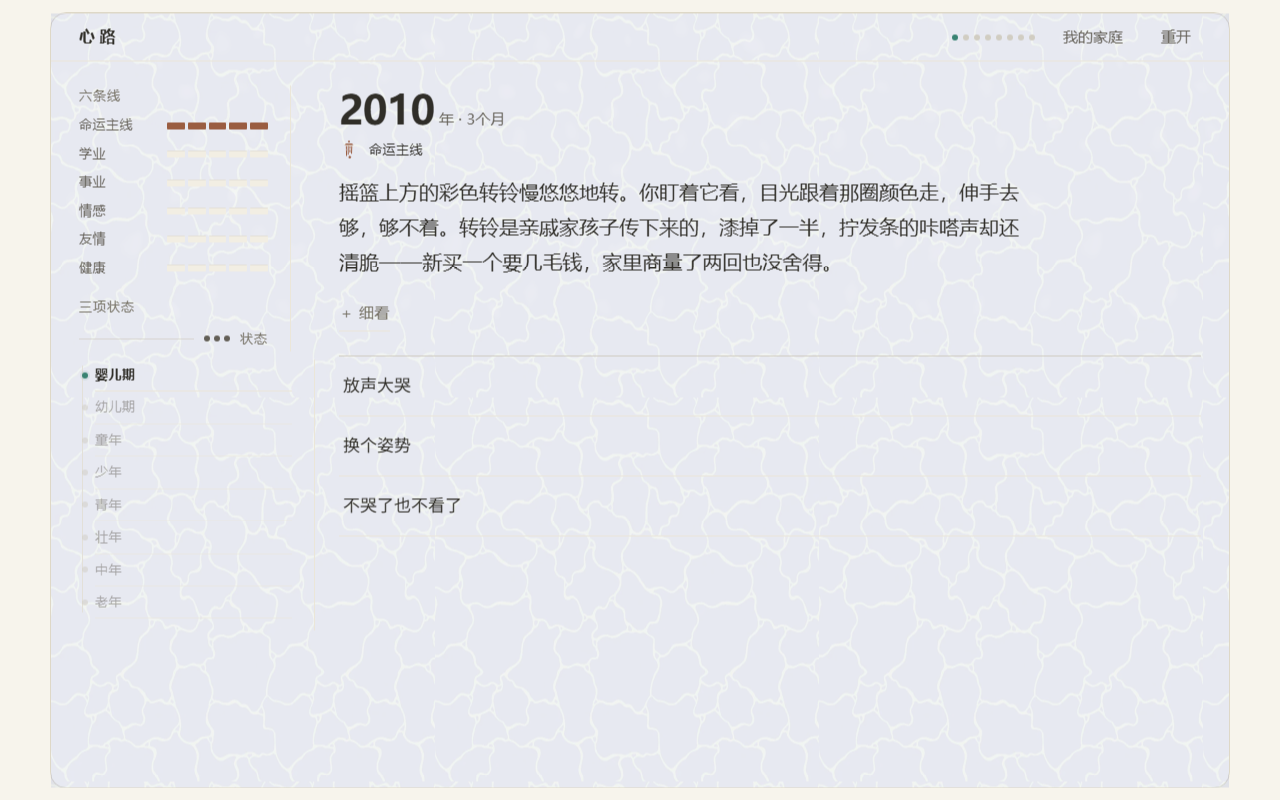
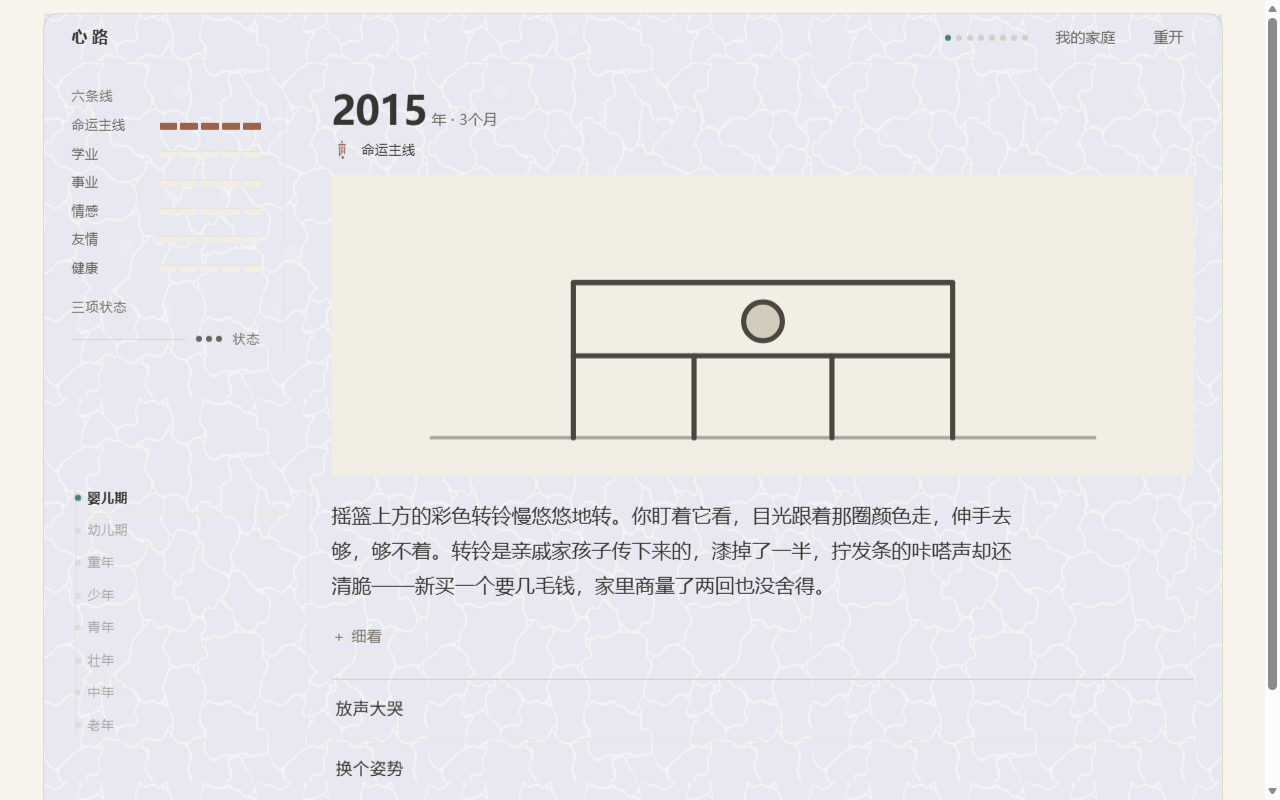
心路：v5-M3'''' 收官翻面（口径增补 + 两处状态副本 ✅ + 决策七行 + v5-M4 入棒单）
- 两处状态副本 v5-M3'''' ⬜→✅（plan/00 里程碑总表 + README 状态表，逐处独立采集后
  仍 119/120 行、23:23 一致）；v5-M4'''' 保持 ⬜。
- v5/00 台账三行 ✅（家谱树视图 / 语义配图 D9 / 轻量线索 D10）+ 决策记录七行
  （素材路线 / 标签来源 / 取图方式 / 线索判定 / 线索存档承载 / 图谱默认视图 /
  节点详情记录来源）+ 文档索引同步。
- v5/02 新增 §十四（§八/§九/§十 落地形态；§九 记明配图路线偏离与实测依据）。
- v5/03 模块 4 ✅（图谱增量）/ 模块 5 ✅（配图与线索）/ 模块 6 🟡 增量。
- v5/04 注 v5-M3'''' 执行结果（三块 + 出口门实测 + 抓到的 8 条真缺陷）。
- v5/backlog 观察区 +4 项（配图豁免 / 线稿表现力 / 线索只 6 条 / 线索未参与结局）。
- 写 plan/v5/HANDOFF-v5-M4.md（七节齐，含 11 条真缺陷判别口诀）。
- e2e 截图留痕重留 + 新增 4 张图谱双视图截图 + 48 张线稿总览图。

diff --git a/plan/v5/HANDOFF-v5-M4.md b/plan/v5/HANDOFF-v5-M4.md
@@ -1,0 +1,116 @@
+# HANDOFF-v5-M4 · v5-M3'''' → v5-M4'''' 入棒单（发布 v5.0.0）
+
+> 用法：续接对话第一件事 = 跑布局门 `node tools/check-sprint-layout.mjs`（必须绿），然后读本档 + [00-README总览.md](00-README总览.md)。
+> 编号纪律（skill 硬约束①）：**交接单编号随棒顺延**——本档是 v5-M3'''' 的收尾单，编号 HANDOFF-v5-M4 指下一棒（v5-M4''''）。
+> 本档记录 **v5-M3'''' 呈现层二（2026-10-26 收官）**：图谱双视图 + 节点详情 / 语义配图层（D9）/ 轻量线索（D10）。
+
+## 一、当前进度 + 证据（2026-10-26 当轮实测）
+
+| 块 | 落位 | 证据（当轮实跑） |
+|---|---|---|
+| 3.1 图谱双视图 | `src/ui/relations.ts`（`treeVM` / `treeSortKey` / `bondToOpacity` / `relationDetail` / `renderTree` / `renderRing`）+ `screens.ts`（`relationsScreen` 视图切换 + 清单行改按钮 + `relationDetailPanel`）+ `app.ts`（`relationView` 表现态 + 点开详情 + 换视图后重绑）+ `style.css`（`.rel-views` / `.rel-detail*` / 节点 hover） | `relations.test.ts` **21 项**（+10：层级 y 序 / 玩家恒正中 / 逐字节确定 / 婚姻双线线段数 = 边数 × 2 / 双视图产物不同 / `data-rel-node` 入口 / 详情回查 bondDeltas / 不在册返回 null / 时代卡跳过）；E2E 双视图切换 + 树层级（`getBoundingClientRect`）+ 详情面板（姓名 / 关系值 / 有记录或「还没变过」）+ 4 张截图 `docs/assets/v5-relations-{tree,ring}-{375,1280}.png` |
+| 3.2 语义图库（D9） | `assets/web-ready/scenes/*.svg`（**48 张 / 19 类**）+ `src/data/scene-map.json`（`{tags, keyTag}`）+ `src/ui/scenes.ts`（`sceneTagOf` / `sceneFileOf` / `sceneCoverage`）+ `screens.ts`（`sceneImage` 内联 + `figure.ev-scene`）+ `style.css`（`.ev-scene`，375 档限高 104px）+ `tools/v5-gen-scenes.mjs` / `v5-gen-scene-map.mjs` / `v5-scenes-doc.mjs` | validate 新增 `S` 区（`S.TAG` 19 类 / `S.FILE` 实物在位 / `S.EXTRA` 无孤儿 / `S.KEY` 无死键 / `S.COVER` 253/295 = **85.8%** ≥60%）；`scenes.test.ts` **9 项**（含「无死图」——每张图至少被一条事件用到）；逐张对文案 [docs/v5-scenes.md](../../docs/v5-scenes.md)（183 行）+ 总览图 `docs/assets/v5-scenes-sheet.png`；E2E 配图断言（≥10 张卡带图 / ≥6 张不同场景图 / 文件名合法） |
+| 3.3 轻量线索（D10） | `src/data/clues.json`（6 条）+ `src/engine/clues.ts`（`pendingClue` / `resolveClue` / `unlockEventIdOf` / `CLUE_FLAGS`）+ `events.json` 增 **12 条** `pre` 门槛事件（`tools/v5-add-clues-events.mjs`）+ `icon-map.json` 补 12 条（`tools/v5-add-clues-icons.mjs`）+ `screens.ts` `clueScreen` + `app.ts` `renderClueCard` + `style.css` `.clue-card` | validate 新增 `C` 区（形状 / 引用闭合 / 阶段一致 / 文案长度 / flag 唯一 / 每阶段 ≤1 / **`C.UNLOCK` 解锁事件 `pre` 必须真含该 flag**）；`clues.test.ts` **16 项**（含 **36 局全程实证：6 条线索 100% 触发 + 6 个锚事件 36/36 被抽到**）；E2E 线索卡（2–3 观察 + 2 解读 + 无三观增量读数 + 一局至少遇到 1 次） |
+
+**出口门实测（2026-10-26 当轮）**：布局门全绿（`DOC_TOOLS 12 个脚本全部在位`、`README 119/120`、`STATUS 2 处副本 × 19 里程碑一致无缺行`、`HANDOFFS 17 份齐`）/ 脱敏门 529 文件 0 命中 / 许可门 0 FAIL（459 件）/ 预算门 31 件 **760.43KB ≤ 850KB** 无 WARN（+14.38）/ validate 0 FAIL（295 事件，`--full`）/ validate:story 七项绿（255 条）/ validate:rhythm 绿 / vitest **399/399**（基线 364，+35）/ typecheck 0 / e2e 双端一键通关 + v5 开局四步与自定义出生全流程 / 变异自检 **24/24**（`node tools/tmp-mutate-v5m3.mjs`，12 组）。
+
+## 二、当前事实·状态不变量（下一棒动手前必须知道）
+
+1. **vitest 基线升到 399**（只加不减）：v5-M3'''' 增量 35 项 = `relations.test.ts`（+10）+ `scenes.test.ts`（9）+ `clues.test.ts`（16）。
+2. **图谱有两套布局，同一个出口**：`relationsVM`（环，沿 v3，继续服务右列清单行序与旧断言）与 `treeVM`（树，默认）。`renderRelations(npcs, view)` 是唯一渲染出口，快照与图谱页共用。**别把 renderRelations 的默认参数改掉**——终局快照 `relations-snapshot` 走默认值。
+3. **图谱边必须是 `<line>`，不能换 `<path>`**：E2E 用 `[data-relations-chart] svg line` 数边、`svg g` 数节点。树的「正交折线」是逐段 `<line>` 拼出来的；环视图的曲线是 `<path>`（只在 ring 视图出现，E2E 不数它）。
+4. **公共母线单独画一次**：多子女共用的竖/横段若不抽出来，每个孩子各画一遍同一段，**最后画的那条 tag 色会盖住其余**——颜色的归属变成「谁最后画」。母线用中性导线色（`--ink-3`，opacity .55）。
+5. **配图映射单源 = `scene-map.json` 的 `keyTag`**（`objectKey → 标签`），由 `tools/v5-gen-scene-map.mjs` 从 icon-map 派生；`assets/web-ready/scenes/*.svg` 是实物。**改映射要重跑 `tools/v5-scenes-doc.mjs`**，否则 `docs/v5-scenes.md` 的逐张表过期。
+6. **配图变体取图用哈希高位**（`variantIndex` = `hash >>> 16 % n`）。低位取模与事件 id 尾部强相关（实测 rain 3 条全撞一张），`scenes.test.ts` 的「无死图」断言会拦。
+7. **豁免是「不渲染」而不是「渲染空框」**：`sceneImage(null)` 返回空串，`figure.ev-scene` 节点根本不存在。E2E 用「无图标卡 ≤ 豁免数」的既有口径，配图侧不重复判。
+8. **线索判定零随机、零三观改动**：`resolveClue` 只把 flag 并进 `state.flags`（其余字段原样）。改这一条会同时打掉 `clues.test.ts` 的「不动判定核」与「36 局可复现」。
+9. **线索 flag 只写在 `clues.json`**：validate `C.FLAG` 反向扫「以 `clue-` 开头但 clues.json 未声明」的 flag。事件库的 `pre` 可以引用它们（validate 启动时先把 `clues.json` 的 flag 注入 `flagsDefined`）。
+10. **12 条解锁事件的真约束**：`pre` 必须含对应 flag（`C.UNLOCK`）、阶段与线索一致、月龄在锚事件之后且不晚于本阶段最早 critical（`E.AGE` ③）——**改月龄要同时改 `ageHint`**（`E.AGE` 要求两者解析值全等）。
+11. **线索卡的 e2e 钩子**：`.screen-clue[data-clue]`（挂在 `section` 上，不是后代！本轮首跑踩过 `[data-clue]` 后代选择器）、`[data-clue-prompt]`、`[data-clue-choice]`。
+12. **`tools/` 本棒新增四个脚本**：`v5-gen-scenes.mjs`（48 张图稿源，可重跑覆盖）、`v5-gen-scene-map.mjs`（映射派生 + 死键/坏标签硬报错）、`v5-scenes-doc.mjs`（留痕表重生成）、`v5-add-clues-events.mjs` / `v5-add-clues-icons.mjs`（幂等 upsert）。`tmp-mutate-v5m3.mjs` 名字带 tmp 是有意的（不是门，只作留档，可复跑）。
+
+## 三、下一棒待办（v5-M4'''' 发布 v5.0.0，顺序不可颠倒）
+
+> DoD 单源 = [00 §里程碑总表](00-README总览.md) v5-M4'''' 行；执行视图 = [04 §v5-M4''''](04-里程碑任务分解.md)；留档骨架 = [05-发布留档.md](05-发布留档.md)。
+
+| 步 | 内容 | 出口判据 |
+|---|---|---|
+| 4.1 | **构建 + 干净静态服务双端冒烟**：`npm run build` → 起干净静态服务 → `node tests/e2e/smoke.mjs --base-url <url>` | 双端一键通关；不得只看本地 preview |
+| 4.2 | **Pages 部署 + 实开复核**：push → ci + deploy-pages 双 success → 线上 `--base-url` 再跑一次冒烟 | 远端 run 号与结论落档（**CI 日志实证，非本地等价**）；不虚报 |
+| 4.3 | **CHANGELOG v5.0.0**：数据口径版本 + 文本口径与判定呈现变化 → **历史存档建议重开** | 三件事逐条写明；与 v5/02 口径一致 |
+| 4.4 | **plan/05 追加 §十 v5.0.0 节主体（tag 前）** | 两栏齐：tag 时点事实 / tag 后追加事实；覆盖对账小节 |
+| 4.5 | **tag v5.0.0 → Release（五部分 + dist.zip + sha256）** | 五部分齐；`dist.zip` 的 sha256 与本地复算一致 |
+| 4.6 | 留档「tag 后追加」分栏 → 两处状态副本翻 ✅ → 台账 ✅ → **HANDOFF-v5-M5**（收官单） | 布局门全绿；README ≤120 行 |
+
+**公共出口门**：全门绿终值留痕 + 三件套 + README 增量不破 120 行门（`LAYOUT.README` 机检）。
+
+**评审门（强核查）**：CHANGELOG 口径 ↔ v5/02 §十四 ↔ 实现三方一致；发布物（dist.zip / Pages）与 tag 提交一一对应；**tag 之后不得再改代码面**。
+
+**收尾顺序（固定）**：DoD 验证 → 两处状态副本 v5-M4'''' ⬜→✅ → v5/00 台账 ✅ → v5/03 模块 6 收口 → 写 **HANDOFF-v5-M5**（收官单，编号随棒顺延）→ commit。
+
+## 四、既定口径（已拍板，别再问；推翻须进 `v5/00` 决策记录）
+
+- **判定核零改动（K11）**：三观传导 / 结局 / 调度单调 / 种子复现全部不动；**发版不得带判定改动**。
+- **零运行时依赖（K2）**：`dependencies` 恒空。配图是静态 SVG（`?raw` 内联），图谱是手绘 SVG，均不经运行时库。
+- **存档 schema 沿用 v3**（`xinlu.save.v3`）：线索走既有 `flags` 通道，**不升版本、不加字段**。
+- **图谱默认 tree / ring 可切**；节点详情从 history 回查，不新增 bond 日志字段。
+- **配图路线已定为自产 CC0 线稿 SVG**（48 张 / 19 类），偏离原「CC0 照片」口径的**理由与实测数据已留痕** [docs/v5-scenes.md](../../docs/v5-scenes.md) §一 + [00 §决策记录](00-README总览.md)。发版说明里如实写「自产线稿」。
+- **主题四款继续有效**；素纸是默认。
+- 产品/赛事/制度名可入文，**真实机构名/真人名不写**；配图素材沿 v4 纪律：CC0 优先、逐张对文案留痕、不虚构不误导。
+- **发布纪律**：不虚报——push 不通就写不通；tag 后不改代码面；Release 五部分 + dist.zip + sha256 复核一致。
+
+## 五、环境坑（实测在案）
+
+- **本机直连 github.com 不通**：push 一律 SSH:22；仓库/Pages/Release 操作走 `gh` API（HTTPS 通）。
+- **脱敏门红线**：入库文件与提交信息不得写本机盘符 / 用户名 / 回环代理端口；示例路径用 `<user>`/`<repo>` 占位符。**临时探针脚本若写了绝对路径，脱敏门会当场抓到**（本轮踩过：`tests/tmp-probe-scenes.test.ts` 4 处命中）——探针用完立刻删，或一开始就写相对路径。
+- **gh 是原生程序，不认 `/tmp` 路径**：`--notes-file` / 附件参数要传 `cygpath -w` 转过的 Windows 路径。
+- **e2e 冒烟**：`node tests/e2e/smoke.mjs`（本地 build+preview）／`--no-build --base-url <url>`（外部静态服务或线上 Pages，同一口径）。**本轮新增 4 张截图**：`v5-relations-tree-{375,1280}.png` / `v5-relations-ring-{375,1280}.png`——提交前确认是有意更新。
+- **写源码要用 Write/Edit**：本环境有 hook 拦截「Bash 直接写 src/」——批量改请用 `tools/` 下脚本（`v5-add-clues-events.mjs` 等已按此实现），不要在 Bash 里 `>` 重定向写 `src/`。
+- **变异自检的调用方式**：Windows 上 `execFileSync("npx", …)` 不认 `.cmd` 外壳——脚本内要 `run(process.execPath, [node_modules/vitest/vitest.mjs, "run", file])`。
+- **截图要等换屏淡入动画**：图谱页截图若不等（本轮用 `sleep(700)`），拍到的是半透明帧，整页发白。
+- **vitest 单跑 ~20–35s**：可达性两项各 ~33s（并行取最大），不是卡死。
+- **`import.meta.glob` 的 `?raw` 会把 48 张 SVG 内联进 bundle**：这是有意的（省请求、随主题变量联动），代价是 JS bundle +14KB gzip。
+
+## 六、DoD 逐项 checklist
+
+**v5-M3''''（本档所在，已收官）**：
+
+- [x] 3.1 图谱双视图：`treeVM` 三代纵向（tree 默认）+ 关系网曲线重做（亲疏 = 线宽 × 透明度）+ 节点详情（history 回查 bondDeltas）+ 正交母线 + 婚姻双线
+- [x] 3.2 语义图库（D9）：19 类标签 + **48 张自产 CC0 线稿**（原始 34KB）+ `scene-map.json`（`objectKey → 标签`）+ 卡片上半屏（年份戳之下）+ 覆盖 85.8% + 豁免 42 条显式 + 逐张对文案 `docs/v5-scenes.md`
+- [x] 3.3 轻量线索（D10）：`clues.json` 6 条（每阶段 1 处）+ `clues.ts` 纯 flag 判定（零随机）+ 12 条 `pre` 门槛解锁事件 + 线索卡 UI
+- [x] 出口门：validate 0 FAIL（295 事件 + `C`/`S` 两区）/ validate:story 七项绿 / validate:rhythm 绿 / vitest **399**（+35）/ typecheck 0 / e2e 双端全绿 / 布局·脱敏·许可·预算（760.43KB）全绿
+- [x] 变异自检 **24/24**（`node tools/tmp-mutate-v5m3.mjs`，12 组）
+- [x] 计划面翻齐：两处状态副本 v5-M3'''' ✅ + v5/00 台账三行 ✅ + v5/00 决策记录七行 + v5/02 §十四 增补 + v5/03 模块 4 ✅ / 5 ✅ / 6 🟡 增量 + v5/04 执行结果 + v5/backlog 观察区 +4 项 + README 119/120
+- [x] 本档七节齐
+
+**v5-M4''''（下一棒）**：见 §三 六步表，每步各自 DoD 未勾。
+
+**验证记录（本棒当轮实跑，2026-10-26）**：
+
+| 命令 | 结果 |
+|---|---|
+| `node tools/check-sprint-layout.mjs` | **全绿**（10 条判据；`DOC_TOOLS 12 个脚本全部在位`；`README 119/120 行；状态表 23 行`；`STATUS 2 处副本 × 19 个已接门里程碑 状态全一致且无缺行`；`HANDOFFS 17 份齐`） |
+| `node tools/check-desensitized.mjs` | 529 文件，0 命中（豁免 1 份） |
+| `npm run validate`（`--full`） | **0 FAIL**（295 事件；新增 `C` 轻量线索 + `S` 语义配图两区；图标 295/295；F 区绿；偶遇 40 条） |
+| `npm run validate:story` | **绿（七项）**：S.LEN 255 / S.ERA 255 / S.SENSE 255 / S.REF 122；主句 102/117/120；选项 8/16/0%；detail 0 缺/0 超长/0 非前缀；单屏 >160 = 0 |
+| `npm run validate:rhythm` | **绿**：8 局 × 8 阶段，每阶段 4–5 种变体、非 critical 段连片 ≤3 |
+| `npx vitest run` | **399/399**（36 文件；~21s） |
+| `npx tsc --noEmit` | **0 错** |
+| `npm run e2e` | **全绿**（375/1280 双端一键通关 + 线索卡 + 配图 ≥10 张卡 / ≥6 张图 + 图谱双视图/树层级/节点详情 + 四步开局 + v4 自定义出生段；单屏最长 158 字） |
+| `npm run build` + `gate:budget` | 31 件，gzip **760.43KB ≤ 850KB**，无 WARN（+14.38：配图 48 张内联 + 图谱/线索代码） |
+| `npm run gate:license` | 0 FAIL（459 件；scenes 落在既有白名单 `assets/web-ready/`，无需新增署名行） |
+| `node tools/tmp-mutate-v5m3.mjs` | **12 组 / 24 项全符合预期**（图谱 4 组 / 配图 4 组 / 线索 4 组；逐条报红并复原绿） |
+
+## 七、本棒抓出的真缺陷（写进档，供下一棒复用判别口诀）
+
+1. **家谱树画成交叉网（3.1）**：首版每位家长连每个孩子，全是斜穿对角线，看起来不像家谱。处置 = **正交母线**（一根竖母线 + 横向分叉）。判别口诀：**「树」的结构信号是走线正交与分叉点，不是「有层级就算树」**——层级只保证了 y 序，观感要另外治。
+2. **母线颜色被最后一个孩子盖住（3.1）**：多子女共用同一段母线，每个孩子各画一遍 → 最后画的那条 tag 色盖住其余，颜色归属变成「谁最后画」。处置 = 公共段抽出来用中性导线色画一次。判别口诀：**同一条视觉元素被 N 个对象重复绘制时，它的样式就是「最后一个」的样式——要么只画一次，要么明确谁说了算。**
+3. **线稿 46 张长得一样（3.2）**：首版每张右侧堆三个无意义方框当「背景建筑」凑画面。总览目检一眼看出。处置 = **一张只有一个主体、居中放大**。判别口诀：**「一套图」不等于「一个模板」**——共用画法（画布/线宽/配色）是好的，共用填充物会让 48 张变成 1 张。
+4. **配图与文案错配（3.2）**：`windchimes`（摇篮转铃）映射到 `relic`，「信封」图挂在婴儿摇篮卡下；「办健身卡」配「病房」；「公园打拳」配「病房」；「徒弟开厂」配「家门」。处置 = ①按「事件发生在哪」重新归类；②**拆出不存在的类**（新增 `outdoors`），而不是硬塞进最近的类。判别口诀：**类目不够细就会硬塞**——错配的信号往往不是「映射写错了」，而是「这个类根本不该收这条」。
+5. **哈希低位取模导致变体全撞（3.2）**：`hash % n` 与事件 id 尾部强相关（`infant-015` / `toddler-015` / `toddler-602` 的低比特全是 0），rain 3 条全落同一张、meal 4 条撞 3 张，「每类 ≥2 张变体」形同摆设。处置 = 用**高位**（`>>> 16`）+ 补「无死图」门。判别口诀：**「我有 N 个槽」不等于「N 个槽都在用」——分布要机检，别靠想。**
+6. **婚姻双线判据是假门（3.1）**：首版断言 `marriage 线段数 ≥ 2`，但父母一对 + 伴侣一对本来就 ≥2 段，退化成单线依然通过。变异自检报「未红」才发现。处置 = 断言 `线段数 = 边数 × 2`。判别口诀：**下界断言要问「最坏情况是什么」——如果最坏情况也满足下界，这条断言没在判任何东西。**
+7. **线索随机化不可观测（3.3）**：想用「变异成随机取线索」验证可复现断言，结果不报红——因为 6 条线索在固定 state 下只有 1 条 pending，随机起点也还是它。处置 = 换成「忽略阶段门槛」变异（这条真能观测）。判别口诀：**变异要选「判据面真会被改变」的那个维度**，否则你以为在验门，其实在验运气。
+8. **新屏未接 E2E 驱动（3.3）**：新增线索卡后 e2e 首跑直接 `stuck:screen screen-card screen-clue`——轮询不认识新屏。处置 = 补驱动分支 + 采集 + 断言。判别口诀：**新增一个屏 = 新增一条 e2e 分支**，不是「等它出现再断言」（后者会静默跳过）。
+9. **选择器挂在自己身上（3.3）**：`[data-clue]` 挂在 `section.screen-clue` 上，写成 `.screen-clue [data-clue]`（后代选择器）永远找不到。处置 = `.screen-clue[data-clue]`。判别口诀：**同一个元素既当容器又当锚点时，后代选择器必然落空。**
+10. **截图拍在淡入动画中途（3.1 留痕）**：图谱页截图整页发白——`.screen` 有淡入动画，`captureScreenshot` 抢在动画中。处置 = 等 700ms 再拍（或等 `animationend`）。判别口诀：**任何「截出来怪怪的」先怀疑时机，再怀疑样式。**
+11. **脱敏门抓自己的临时探针（环境坑连带）**：为目检写的 `tests/tmp-probe-scenes.test.ts` 里写了绝对盘符路径，脱敏门当场 4 处命中。处置 = 探针用完立刻删；要留就写相对路径。判别口诀：**临时脚本也进扫描面**——「跑完就删」是纪律，不是可选项。

diff --git a/plan/v5/00-README总览.md b/plan/v5/00-README总览.md
@@ -10,15 +10,16 @@
 |---|---|---|---|
 | 00 | 本档 | 索引 / 决策记录 / 台账 / 里程碑总表 | ✅ 已定稿（2026-10-26） |
 | 01 | [01-题目文档.md](01-题目文档.md) | 十段式：定位宣言 / 任务要求 / 验收标准 / 边界 | ✅ 已定稿 |
-| 02 | [02-数据与口径.md](02-数据与口径.md) | v5 口径单源：家庭槽位 / 偶遇层 / 节奏变体 / 文本长度门 / 主题色板 / 语义图库 / 线索玩法 + **§十二 v5-M1'''' 实现增补** + **§十三 v5-M2'''' 实现增补** | ✅ 已定稿（2026-10-26 增补 §十三） |
-| 03 | [03-模块清单与验收.md](03-模块清单与验收.md) | 6 个 v5 模块 × 职责 / 契约 / 验收 | 🟡 模块 1/2 ✅、模块 3/4 部分 ✅（v5-M2''''）、模块 6 🟡 |
-| 04 | [04-里程碑任务分解.md](04-里程碑任务分解.md) | v5-M1''''–M4'''' 任务块 / 验证命令 / 评审门 | ✅ 已定稿（v5-M1''''/v5-M2'''' 执行结果已注） |
+| 02 | [02-数据与口径.md](02-数据与口径.md) | v5 口径单源：家庭槽位 / 偶遇层 / 节奏变体 / 文本长度门 / 主题色板 / 语义图库 / 线索玩法 + **§十二/§十三/§十四 实现增补**（v5-M1''''/M2''''/M3''''） | ✅ 已定稿（2026-10-26 增补 §十四） |
+| 03 | [03-模块清单与验收.md](03-模块清单与验收.md) | 6 个 v5 模块 × 职责 / 契约 / 验收 | 🟡 模块 1–5 ✅（v5-M3''''）、模块 6 🟡（发布三件套留 v5-M4''''） |
+| 04 | [04-里程碑任务分解.md](04-里程碑任务分解.md) | v5-M1''''–M4'''' 任务块 / 验证命令 / 评审门 | ✅ 已定稿（v5-M1''''/M2''''/M3'''' 执行结果已注） |
 | 05 | [05-发布留档.md](05-发布留档.md) | v5.0.0 三件套留档骨架 | ⬜ 待 v5-M4'''' 撰写主体 |
 | 06 | [06-运维节奏.md](06-运维节奏.md) | 沿用十四类缺口 + v5 扩展 | ✅ 规则已定稿 |
-| — | [backlog.md](backlog.md) | v5 迭代队列（证据制） | ✅ 已启用（2026-10-26；队列空 + 观察区 8 项） |
+| — | [backlog.md](backlog.md) | v5 迭代队列（证据制） | ✅ 已启用（2026-10-26；队列空 + 观察区 13 项） |
 | — | [HANDOFF-v5-M1.md](HANDOFF-v5-M1.md) | 装订棒 → v5-M1'''' 入棒单（七节） | ✅ 已写定（2026-10-26） |
 | — | [HANDOFF-v5-M2.md](HANDOFF-v5-M2.md) | v5-M1'''' → v5-M2'''' 入棒单（七节） | ✅ 已写定（2026-10-26） |
 | — | [HANDOFF-v5-M3.md](HANDOFF-v5-M3.md) | v5-M2'''' → v5-M3'''' 入棒单（七节） | ✅ 已写定（2026-10-26） |
+| — | [HANDOFF-v5-M4.md](HANDOFF-v5-M4.md) | v5-M3'''' → v5-M4'''' 入棒单（七节） | ✅ 已写定（2026-10-26） |
 
 状态枚举：✅ 已定稿 ｜ 🟡 进行中 ｜ ⬜ 待 v5-Mx + 动词 ｜ 🔒 已冻结
 
@@ -42,7 +43,13 @@
 | 2026-10-26 | v5-M2'''' **「再来一次」的可用性** | **随机/手选态可用，自定义态不渲染**（`rerollable` 字段） | 自定义态也放按钮：玩家填的八因素不会变，重掷只换种子与家庭名单——按钮名不副实，且与「再来一次」的语义（重掷未知项）冲突 |
 | 2026-10-26 | v5-M2'''' **L3 状态条的折叠方式** | 用**原生 `<details>`**，收起态 = 1px 细线 + 三枚档位点；三项读数节点**不删**（只藏） | JS 折叠：多一处状态与事件绑定，且刷新/续局易丢展开态；删节点只留摘要：既有 E2E 钩子（`.statebar .res` / `res-word` / `res-tier-bar i`）全断，等于用一层视觉换掉一层契约 |
 | 2026-10-26 | v5-M2'''' **纹理素材是否删除** | **留档不删**（只删样式表引用）；`--tex-wash: 0` 留在 `:root` 作机检事实 | 连素材一起删：CC0 台账的可追溯性丢了（v3 素材决策留痕），且删文件与「不引用」对产物是同一效果；删 `--tex-wash` token：素纸变成「某处没写」的巧合，不是可断言的事实 |
-
+| 2026-10-26 | v5-M3'''' **配图素材路线** | **自产 CC0 线稿 SVG（48 张 / 19 类）**，不采照片 | 按原口径采 CC0 照片：本机 Wikimedia/Openverse 不通、Pexels/Pixabay 只有 CDN 直连无法核验画面与许可，provenance 逐张无法证真（违反「不虚构不误导」）；且照片 WebP 实测 ≈4.3KB/张 × 48 ≈ 207KB > 当时预算余量 104KB。自产沿 v4 `stage-scenes` 先例：许可零风险、可逐张留痕、原始 34KB。偏离留痕 [docs/v5-scenes.md](../../docs/v5-scenes.md) §一 |
+| 2026-10-26 | v5-M3'''' **配图的语义标签来源** | **`objectKey → 标签`**（复用 iconMap），不新造 `sceneTag` 字段 | 给每条事件新标 `sceneTag`：等于把 v4 已核过的「文本核心物件」判断重做一遍，还会与 iconMap 漂移成两处；跑文本关键词匹配：实测 99.3% 覆盖看着漂亮，但每条都是最近似猜测（先试过，弃用）。从 objectKey 派生得 85.8%，可逐条核查 |
+| 2026-10-26 | v5-M3'''' **配图变体的取图方式** | 事件 id **哈希高位**取模（同 id 恒同图） | 低比特取模：与事件 id 尾部强相关，实测 rain 3 条全撞一张、meal 4 条撞 3 张，「每类 ≥2 张变体」形同摆设（`scenes.test.ts` 的「无死图」断言即为此立）；按顺序轮换：事件增删会让整片图重新洗牌，留痕表失效 |
+| 2026-10-26 | v5-M3'''' **线索的判定方式** | **纯 flag 映射，零随机**（`resolveClue` 只并 flags） | 线索判定走种子 RNG：可复现仍成立，但「这条线索为什么出」就不可解释了；线索直接改三观：违反「线索只写 flag、影响后续解锁」的既定口径 |
+| 2026-10-26 | v5-M3'''' **线索 flag 的存档承载** | 沿用既有 `flags` 通道，**存档 schema v3 不变、不加字段** | 新增 `clues` 字段：要升版本 + 写迁移测试，而 flag 通道本就存在且被 pre/结局共用；另存一份线索日志：与 flags 双写易漂移 |
+| 2026-10-26 | v5-M3'''' **图谱默认视图** | **家谱树（tree）默认**，关系网（ring）切换 | ring 作默认沿 v3：玩家反馈要的是「一眼看清血缘」，环形本就在被否的视觉里；只留 tree：关系网仍承载「谁离你更近」（亲疏线宽 + 透明度） |
+| 2026-10-26 | v5-M3'''' **节点详情的记录来源** | **从 history 回查选项 bondDeltas**（不另存） | 新增 bond 变更日志字段：要升存档版本，且与 history 双写会漂移；只显示关系值不显示记录：那条反馈（「关系不再是一个数字」）就没治到 |
 ## 招牌动词表（v5 新增能力名词 → 产出 → 断言）
 
 | # | 能力名词 | 交付态哪里产出它 | 哪条测试/校验断言它 |
@@ -87,9 +94,9 @@
 | 出生证明卡（随机可读） | 10 §四.2 | 开局屏 | E2E + 八因素齐 | ✅ 2026-10-26（八因素 `data-cert-factor` 逐个非空（出生年/南北/城乡/结构/父母职业/家境/家庭成员/种子码）；家庭成员与 `generateFamily`/`createRun` 名单逐位一致（单测）；「再来一次」换种子且至少一项因素变（E2E），自定义态不渲染该按钮（单测 + E2E）） |
 | 素纸主题（D8） | 10 §四.3 | 设置页 | 四主题截图 + AA 测试 | ✅ 2026-10-26（`body::before` 纹理层整段删除 + `--tex-wash: 0` 机检 + 四款主题 ink/ground·ink/surface ≥7:1 与 ink-2/ink-3 ≥4.5:1 逐主题断言；四主题截图 `docs/assets/v5-theme-{paper,moon,night,celadon}-375.png`；夜航 AA 11 组合判据未动） |
 | 卡片阅读优先（单屏 ≤160 字观感） | 10 §四.5 | 卡片屏 | E2E + 人工目检 | ✅ 2026-10-26（L1 `--fs-section` + `max-width: 34em`（E2E 换算成「一行 34 字」硬断言）+ 留白 32px；L3 状态条原生 `<details>` 默认折叠（细线 + 三档位点）；细看展开对账：可见 + 以主句开头 + 不短于主句） |
-| 家谱树视图 | 10 §四.4 | 图谱屏 | 布局单测 + E2E | ⬜ 待 v5-M3'''' 实现 |
-| 语义配图 40–60 张 | 10 §五（D9） | 卡片上半屏 | 覆盖校验 + 许可门 | ⬜ 待 v5-M3'''' 实现 |
-| 轻量线索（D10） | 10 §三.5 | 卡片流 | 判定单测 + 可复现 | ⬜ 待 v5-M3'''' 实现 |
+| 家谱树视图 | 10 §四.4 | 图谱屏 | 布局单测 + E2E | ✅ 2026-10-26（`treeVM` 三代纵向：祖辈 < 父母 < 玩家与同辈 < 伴侣与同行者（层级 y 序单测 + E2E 读 getBoundingClientRect）；玩家恒第 2 层正中；正交折线母线（多子女共用竖/横段用中性导线色画一次）；婚姻双线（`segments × 2` 机检）；关系网曲线连边 + 亲疏 = 线宽 + 透明度；节点详情取 history 回查 bondDeltas（关系值 + 何时/因何，无记录时明说「还没变过」）；同状态两次渲染逐字节相同；E2E 双视图切换 + 树层级 + 详情面板；截图 `docs/assets/v5-relations-{tree,ring}-{375,1280}.png`） |
+| 语义配图（D9） | 10 §五（D9） | 卡片上半屏 | 覆盖校验 + 许可门 | ✅ 2026-10-26（**自产 CC0 线稿 SVG 48 张 / 19 类**，原始合计 34KB；路线偏离留痕 [docs/v5-scenes.md](../../docs/v5-scenes.md) §一——照片路线在本机无法核验 provenance，且 48 张 ≈207KB 超预算余量）；映射 `objectKey → 语义标签`（继承 v4 逐条核过的图标结论）；覆盖 253/295 = **85.8%** ≥60%；豁免 42 条显式（不渲染、不留空框）；validate `S` 区（标签 ≥16 / 每类 ≥2 / 实物在位 / 无孤儿 / keyTag 无死键 / 覆盖 ≥60%）；`scenes.test.ts` 9 项（含「无死图」）；逐张对文案 `docs/v5-scenes.md`） |
+| 轻量线索（D10） | 10 §三.5 | 卡片流 | 判定单测 + 可复现 | ✅ 2026-10-26（`src/data/clues.json` 6 条 = 6 阶段各 1 处；`src/engine/clues.ts` 纯 flag 判定（零随机、零三观改动）；两条解读各写一个 flag（共 12 个），各解锁一条新事件（12 条 `pre` 门槛事件）；validate `C` 区（形状 / 引用闭合 / 文案长度 / 每阶段 ≤1 / 解锁事件 `pre` 必须真含该 flag）；`clues.test.ts` 16 项含 **36 局全程实证 6 条线索 100% 触发**；E2E 线索卡断言（2–3 条观察 + 2 解读 + 无三观增量读数）） |
 | 历史存档重开声明 | 双层版本规则 | Release 说明 | CHANGELOG 核对 | ⬜ 待 v5-M4'''' 实现 |
 
 ## 里程碑总表（DoD 只加不减；要减必须在本档决策记录留行）

diff --git a/plan/v5/02-数据与口径.md b/plan/v5/02-数据与口径.md
@@ -246,3 +246,44 @@
 | 四主题保留 | `paper / moon / night / celadon` id、能力、`--tier-1..5` 联动全部不变；夜航 AA 11 组合判据面**未动**（只加不减） |
 | 设置页补全 | 新增**阅读偏好**两组（字号 2 档 / 动效 2 档，`src/ui/prefs.ts`，键 `xinlu.prefs.v1`，挂 `<html data-font/data-motion>`）+ **本机存档**清除（两步确认，只清 `xinlu.save.v3`，图鉴与设置保留） |
 | 纹理素材处置 | `assets/cc0/parchment/*.webp` 两件**留档不删**（CC0 台账可追溯，见 [assets/README.md](../../assets/README.md) 该节 v5 状态行）；**纹理层删除是负增量**：parchment-bg.webp（1.9KB）小于 Vite 内联阈值，原以 base64 内联进 CSS，删引用后 dist 少约 **2.45KB（gzip）**；本棒新增 CSS/TS 净额约 +3.04KB，故 745.46 → **746.05KB**（净 +0.59KB，实测口径见 [04 §v5-M2'''' 执行结果](04-里程碑任务分解.md)） |
+
+## 十四、v5-M3'''' 实现增补（口径变更留痕，随实现同提交）
+
+> 本节是 v5-M3'''' 执行时对 §八–§十 的**落地形态说明**，只增不改（原表述保留）。与上文不一致处以本节为准，同笔进 [00 §决策记录](00-README总览.md)。
+
+### §八 ▸ 增补：图谱双视图的落地形态
+
+| 项 | 落地口径 |
+|---|---|
+| 视图枚举 | `RELATION_VIEWS = ["tree", "ring"]`（`src/ui/relations.ts`）；**tree 默认**、ring 切换。切换是表现态（`app.ts` 的 `relationView`），不进存档、不落 localStorage |
+| 树布局 | `treeVM(npcs)`：层级由**家庭槽组**决定（0 祖辈 / 1 父母 / 2 玩家与同辈 / 3 伴侣与同行者）；同层横排在 `[34, 326]` 内均分；**玩家恒第 2 层正中**（同辈分列两侧）。位置只由成员构成决定 → 同状态两次渲染逐字节相同（`relations.test.ts` 断言） |
+| 走线 | **正交折线**：父母横杆 + 一根竖母线 + 横向分叉到各子女头顶（不画斜穿对角线）。多子女**共用的竖段/横段只画一次**、用中性导线色（不绑任何人的 tag）——否则每支各画一遍，最后画的那条 tag 色会盖住其余，颜色变成「碰巧」 |
+| 婚姻双线 | 同一折线画两遍、垂直错开 3px；机检断言 `marriage 线段数 = marriage 边数 × 2`（只断言「≥2」会漏掉退化成单线，变异自检抓到过） |
+| 关系网重做 | 曲线连边（二次贝塞尔，控制点沿半径内收 45%）+ 亲疏 = 线宽（`bondToWidth` 1–6px **×** 透明度（`bondToOpacity` 0.35–0.95））+ 画布放大到 380×372、环半径 86/154 做标签避让 |
+| 节点详情 | `relationDetail(history, npcs, id)`：**从 history 回查选项的 `bondDeltas`**（存档 schema v3 冻结，不新增字段、不另存 bond 日志——那会与 history 漂移）。面板给关系值 + 逐条「何时（ageHint）/ 因何（选项文案）/ 增量」；无记录时明说一句「这一段关系还没有变过」，不留空白区 |
+| 图例/钩子 | `data-rel-node`（SVG 节点与右列清单同一入口）、`data-rel-view`（切换）、`data-rel-detail`（面板）、`data-bond-delta`；既有 `[data-relations-chart] svg g` / `svg line` 数节点与边的口径**未破坏**（边一律 `<line>`，不换 `<path>`） |
+
+### §九 ▸ 增补：语义配图的落地形态（含路线偏离）
+
+| 项 | 落地口径 |
+|---|---|
+| **素材来源（偏离）** | plan 原口径是「CC0/公版照片，WebP ≤40KB/张，40–60 张」。**本机实测**：Wikimedia/Openverse 不通，Pexels/Pixabay 只有 CDN 直连、无检索 API，无法核验画面与许可 → 照片路线的 provenance 无法逐张证真；且照片 WebP 实测 ≈4.3KB/张 × 48 ≈ 207KB，**超出当时预算余量（104KB）**。故改为**自产 CC0 单色线稿 SVG**（沿 v4 `stage-scenes` 自产剪影先例）：48 张、原始 34KB、≈0.7KB/张，许可零风险、可逐张留痕。逐张对文案见 [docs/v5-scenes.md](../../docs/v5-scenes.md) |
+| 标签枚举 | **19 类**（首批清单 16 类 + 实测拆出 `outdoors 户外` / `meal 饭桌` / `relic 旧物`）。拆分的由来：目检抓到真错配——办健身卡配「病房」、公园打拳配「病房」、徒弟开厂配「家门」，**类目不够细就会硬塞** |
+| 映射 | `objectKey → 语义标签`（`scene-map.json` 的 `keyTag`）。选它而不是新造 `sceneTag` 字段：v4-M3''' 已按「文本核心物件 ⊆ objectKey」逐条核过全部事件的图标，所以这是**可核查的既有事实**，不是第二次猜测。直接跑文本关键词会得出 99.3% 覆盖，但每条都是最近似——本轮先试过，弃用 |
+| 取图 | 同标签多张变体按事件 id 的**哈希高位**（`>>> 16`）取模。低比特与事件 id 尾部强相关：实测 rain 3 条全撞一张、meal 4 条撞 3 张，多张变体形同摆设。`scenes.test.ts` 的「无死图」断言即为此而立 |
+| 覆盖与豁免 | 覆盖 **253/295 = 85.8%**（≥60%）；豁免 42 条**显式**（不渲染配图、不留空框）。豁免构成：抽象图标（`heart-*` 系 12 个 + `choice`/`crossroad`/`despair`/`infinity`/`uncertainty` 等）本就不是场景；另 1 条在图标层已豁免 |
+| 卡片位置 | 配图在**年份戳之下、L1 正文之上**（`figure.ev-scene[data-ev-scene]`）；375 档限高 104px。**不得顶掉年份戳**（顺序未变）；配图**不计入**单屏 ≤160 字口径（它不占文字量） |
+| 门禁 | validate 新增 `S` 区（`S.TAG` 标签 ≥16 / 每类 ≥2 张；`S.FILE` 实物在位；`S.EXTRA` 无孤儿图；`S.KEY` keyTag 无死键；`S.COVER` 覆盖 ≥60% 且**逐事件复算**不写死数字）+ `scenes.test.ts` 9 项 |
+
+### §十 ▸ 增补：轻量线索的落地形态
+
+| 项 | 落地口径 |
+|---|---|
+| 数据 | `src/data/clues.json`：6 条（childhood/teen/youth/adult/midlife/elder **各 1 处**），每条 = `anchorEventId`（锚事件）+ `prompts` 2–3 条（≤20 字）+ `choices` 2 个（≤12 字，各一个 flag）+ `unlockEventIds` 2 个（与 choices 同序） |
+| 判定 | `src/engine/clues.ts` 纯函数、**零随机、零三观改动**：`pendingClue`（锚事件已作答 + 未落定 + 阶段一致，按 clues.json 顺序取第一条）、`resolveClue`（只把所选解读的 flag 并入 `flags`）、`unlockEventIdOf`。可复现是结构性质，不是巧合 |
+| flag 单源 | 线索 flag 只写在 `clues.json`；validate `C` 区反向扫「以 `clue-` 开头但 clues.json 未声明」的 flag 并报红，防两处各记一份 |
+| 解锁 | 12 条新事件（6 组 × 2 解读），每条 `pre: [<该解读的 flag>]`。validate `C.UNLOCK` 要求**解锁事件的 `pre` 真的含该 flag**——否则玩家表了态却什么都没变 |
+| 存档 | 走既有 `flags` 通道，**schema v3 不变、不加字段**（K 口径）；线索不回写、不新建存储键 |
+| 呈现 | 线索卡与事件卡同壳（`.screen-clue[data-clue]`），但**不渲染三观增量读数**（它只写 flag，界面不该暗示它在改判定核）。钩子：`[data-clue-prompt]` / `[data-clue-choice]` |
+| 实证实测 | `clues.test.ts` 含 **36 局全程模拟**（3 环境 × 12 种子）：6 条线索 **100% 触发**、6 个锚事件 36/36 被抽到。只测纯逻辑证不了可达性——阶段内 35 条事件实出 ~25–32 张卡，锚可能抽不到 |
+| 门禁 | validate 新增 `C` 区（`C.SCHEMA`/`C.REF`/`C.STAGE`/`C.LEN`/`C.FLAG`/`C.DENSITY` 每阶段 ≤1/`C.UNLOCK`） |

diff --git a/plan/v5/03-模块清单与验收.md b/plan/v5/03-模块清单与验收.md
@@ -36,20 +36,21 @@
 - **契约**：素纸主题（02 §七，删纹理/提对比）；四主题保留；图谱双视图（`tree` 默认 / `ring` 切换，02 §八）+ 节点详情（关系值 + 变化记录）。
 - **验收**：四主题截图留痕 + 夜航 AA 测试绿；树视图布局单测（层级 y 序 + 确定性）；节点详情 E2E；图谱视觉目检（曲线/头像圆/标签避让）。
 - **依赖**：1（槽位 role 标签）。
-- **状态：🟡 主题部分 ✅（v5-M2''''，2026-10-26；图谱双视图/节点详情留 v5-M3''''）**。验证记录：`body::before` 纹理层整段删除 + `:root` 保留 `--tex-wash: 0`（`theme-contrast.test.ts` 直读样式表断言：无纹理层、无 parchment 引用、无 `--tex-opacity`）；四款主题 `ink/ground`·`ink/surface` ≥7:1、`ink-2/ink-3/surface` ≥4.5:1 逐主题断言；夜航 AA 11 组合判据面未动；四主题截图 `docs/assets/v5-theme-{paper,moon,night,celadon}-375.png`；设置页补全见模块 3b。
+- **状态：✅ 已验收（v5-M2'''' 主题 + v5-M3'''' 图谱，2026-10-26）**。验证记录：`body::before` 纹理层整段删除 + `:root` 保留 `--tex-wash: 0`（`theme-contrast.test.ts` 直读样式表断言：无纹理层、无 parchment 引用、无 `--tex-opacity`）；四款主题 `ink/ground`·`ink/surface` ≥7:1、`ink-2/ink-3/surface` ≥4.5:1 逐主题断言；夜航 AA 11 组合判据面未动；四主题截图 `docs/assets/v5-theme-{paper,moon,night,celadon}-375.png`；设置页补全见模块 3b。**v5-M3'''' 图谱增量**：`treeVM` 三代纵向（层级 y 序 + 玩家恒第 2 层正中 + 同状态逐字节确定）+ 正交折线母线（公共段中性导线色画一次）+ 婚姻双线（线段数 = 边数 × 2 机检）+ 关系网曲线连边与亲疏两维（线宽 × 透明度）+ 节点详情（history 回查 bondDeltas，无记录明说「还没变过」）；`relations.test.ts` 21 项；E2E 双视图切换 + 树层级 + 详情面板；截图 `docs/assets/v5-relations-{tree,ring}-{375,1280}.png`。口径增补见 [02 §十四 ▸ §八](02-数据与口径.md)。
 
 ## 5. 配图与线索 `assets/web-ready/scenes/` + `src/data/scene-map.json` + `src/data/clues.json` + `src/engine/clues.ts`
 
-- **契约**：语义标签封闭枚举（≥16 类）+ 图库 40–60 张（WebP ≤40KB）；事件 `sceneTag` 映射；线索 schema 与判定（02 §十）。
-- **验收**：覆盖 ≥60% 事件（脚本统计）+ 豁免清单落档；许可门白名单扩展 0 FAIL；预算门重审；线索判定单测 + flag 写入断言。
+- **契约**：语义标签封闭枚举（≥16 类）+ 图库（原口径 WebP ≤40KB/张，本轮按偏离走自产 SVG）；`objectKey → 语义标签` 映射；线索 schema 与纯 flag 判定（02 §十）。
+- **验收**：覆盖 ≥60% 事件（脚本统计）+ 豁免清单落档；许可门白名单 0 FAIL；预算门重审；线索判定单测 + flag 写入断言 + 全程可达实证。
 - **依赖**：3（卡片三层定版后配位）。
+- **状态：✅ 已验收（v5-M3''''，2026-10-26）**。验证记录：**语义配图** —— 自产 CC0 线稿 SVG **48 张 / 19 类**（原始 34KB；路线偏离见 [docs/v5-scenes.md](../../docs/v5-scenes.md) §一：照片路线在本机无法核验 provenance 且 ≈207KB 超预算）；映射 `objectKey → 标签`（复用 v4 逐条核过的图标结论）；覆盖 **253/295 = 85.8%**；豁免 42 条显式（不渲染、不留空框）；validate 新增 `S` 区（`S.TAG`/`S.FILE`/`S.EXTRA`/`S.KEY`/`S.COVER`）+ `scenes.test.ts` 9 项（含「无死图」）+ 逐张对文案 `docs/v5-scenes.md`；预算 746.05 → **760.43KB**（+14.38，余量 89.57KB）；许可门 0 FAIL（自产，无新增署名）。**轻量线索** —— `clues.json` 6 条（6 阶段各 1 处）+ `clues.ts` 纯 flag 判定（零随机）+ 12 条 `pre` 门槛解锁事件；validate 新增 `C` 区（含 `C.UNLOCK`：解锁事件的 `pre` 必须真含该 flag）+ `clues.test.ts` 16 项（含 **36 局全程实证 6 条线索 100% 触发**）；E2E 线索卡断言（2–3 观察 + 2 解读 + 无三观增量读数）。口径增补见 [02 §十四 ▸ §九/§十](02-数据与口径.md)。
 
 ## 6. 门禁与发布 `scripts/` + `tools/` + v5.0.0
 
 - **职责**：`check-rhythm.mjs` 新门；validate `F` 区 + 密度门扩展；`validate:story` 三门；布局门 v5 感知（装订棒已扩）；发布流程（构建→冒烟→Pages→CHANGELOG→tag→Release→留档 §十）。
 - **验收**：全门绿 + 变异自检各一；三件套；README 增量不破 120 行门；Release 五部分含重开声明。
 - **依赖**：1–5。
-- **状态：🟡 门禁部分落位（v5-M1'''' 2026-10-26；发布三件套留 v5-M4''''）**。验证记录：`scripts/check-rhythm.mjs` 落位 + `npm run validate:rhythm` 同批 + 布局门 `PENDING_TOOLS` 登记同提交删除；validate `F` 区 / `E.ENC` 密度 / `E.OPTIONS` 2–3 口径；`validate:story` 七项；变异自检 22 组（`tools/tmp-mutate-v5m1.mjs`：F 区 role 泛称 / 槽位键非法 / 偶遇密度 / 偶遇文案超长 / 选项数 4 / 主句超长 / 选项超 16 字 / detail 缺失 / detail 非前缀 / 节奏门关 relay / 节奏门种类不足，逐条报红并复原绿）。**v5-M2'''' 增量（2026-10-26）**：判据面新增三处纯结构门——素纸（`theme-contrast.test.ts`：无纹理层 + `--tex-wash: 0` + 四主题对比度）、卡片三层（`card-layers.test.ts`：L1 ≤34em / L3 折叠壳 / 偏好不动行宽）、开局四步与偏好（`start-flow.test.ts` + `prefs.test.ts`）；变异自检 13 组 / 26 项（`tools/tmp-mutate-v5m2.mjs`）逐条报红并复原绿。
+- **状态：🟡 门禁部分落位（v5-M1'''' 2026-10-26；发布三件套留 v5-M4''''）**。验证记录：`scripts/check-rhythm.mjs` 落位 + `npm run validate:rhythm` 同批 + 布局门 `PENDING_TOOLS` 登记同提交删除；validate `F` 区 / `E.ENC` 密度 / `E.OPTIONS` 2–3 口径；`validate:story` 七项；变异自检 22 组（`tools/tmp-mutate-v5m1.mjs`：F 区 role 泛称 / 槽位键非法 / 偶遇密度 / 偶遇文案超长 / 选项数 4 / 主句超长 / 选项超 16 字 / detail 缺失 / detail 非前缀 / 节奏门关 relay / 节奏门种类不足，逐条报红并复原绿）。**v5-M2'''' 增量（2026-10-26）**：判据面新增三处纯结构门——素纸（`theme-contrast.test.ts`：无纹理层 + `--tex-wash: 0` + 四主题对比度）、卡片三层（`card-layers.test.ts`：L1 ≤34em / L3 折叠壳 / 偏好不动行宽）、开局四步与偏好（`start-flow.test.ts` + `prefs.test.ts`）；变异自检 13 组 / 26 项（`tools/tmp-mutate-v5m2.mjs`）逐条报红并复原绿。**v5-M3'''' 增量（2026-10-26）**：validate 新增两区——`C`（线索：形状 / 锚与解锁事件引用闭合 / 阶段一致 / 文案长度 / flag 唯一 / 每阶段 ≤1 / **解锁事件 `pre` 必须真含该 flag**）与 `S`（配图：标签 ≥16 / 每类 ≥2 张 / 实物在位 / 无孤儿图 / keyTag 无死键 / 覆盖 ≥60% 逐事件复算）；新增两处结构门测试（`relations.test.ts` 21 项 / `scenes.test.ts` 9 项）；变异自检 12 组 / **24 项**（`tools/tmp-mutate-v5m3.mjs`）逐条报红并复原绿——**本轮抓到两条假门**：婚姻双线只断言「≥2 段」在单线退化下仍成立、线索随机化无法被「同状态同结果」观测（改为「忽略阶段门槛」变异）。
 
 ## 模块依赖图
 

diff --git a/plan/00-README总览.md b/plan/00-README总览.md
@@ -110,7 +110,7 @@
 | v4-M4''' | 发布 v4.0.0（三件套 + CHANGELOG 历史存档建议重开声明） | DoD 单源同上；README 增量不破行门 | ✅（2026-10-26，**三件套**：tag v4.0.0 @ 677eb56 + Release 五部分含「年代事件改变人生体验与判定输入 → 历史存档建议重开」（[releases/tag/v4.0.0](https://github.com/yuluo554/xinlu/releases/tag/v4.0.0)）+ dist.zip 744,016 字节 sha256 下载复核一致 + plan/05 §九 留档两栏；流程按 04 §v4-M4''' 全序：build（预算 720.36KB ≤ 850KB 绿）→ 干净静态服务双端一键通关 exit 0 → 发布就绪态 `677eb56`（代码面与 5af1e62 零差异）一次 push 7 提交 → deploy-pages run 40215667603 + ci run 40215667599 双 success → **实开双端一键通关 exit 0 + 浏览器手动开局→首卡→小结**（含真实旧档 v1/v2→v3 历法迁移终局线上实证，截图 [docs/assets/v4m4-pages-summary-390.png](../docs/assets/v4m4-pages-summary-390.png)）→ tag → Release → 留档翻齐；README 114→119 行 ≤120 + CHANGELOG v4.0.0 数据口径对账；终值留痕 [docs/v4-M6-release.md](../docs/v4-M6-release.md)；收官单 HANDOFF-v4-M6（v4 腿收官，编号随棒顺延）） |
 | v5-M1'''' | 数据与机制层：家庭槽位逐位命名 + 偶遇层 40 条 + 文本瘦身（243 条主句/选项/detail）+ 节奏变体引擎 | DoD 单源见 [v5/00 §里程碑总表](v5/00-README总览.md)（只加不减）；公共门 + e2e 全绿 | ✅（2026-10-26：家庭槽位逐位命名（新增 `family-slots.json` 单源 + validate `F` 区 + 图谱 role 逐位 + 旧档 slot 回填；fuzz 1500 组合槽位零重复）+ 偶遇层 40 条（每阶段 5 条，注入不推 line、月龄单调不抢开场；validate `E.ENC` + 注入单测 5 项）+ 文本瘦身 243 条（主句中位 104 字 / 原文整段迁 `detail` 零损失 / 非文案字段零改动核对 0 违规）+ 选项短句化（中位 8 字，原话进 `options[].detail`）+ 五种节奏变体与序列防单调 relay（`npm run validate:rhythm` 每阶段 4–5 变体、非 critical 段连片 ≤3；quick 阈值 6→13 实测修正留痕 [v5/02 §三 ▸ 增补](v5/02-数据与口径.md)）+ 卡片 L1 细看折叠层与变体控件接线 + 单屏 ≤160 字 E2E 硬断言；出口门 validate 0 FAIL（283 事件）/ validate:story 七项绿 / validate:rhythm 绿 / vitest 325（基线 298，+27）/ typecheck 0 / e2e 双端全绿 / 布局·脱敏·许可·预算（745.46KB ≤850KB）全绿；变异自检 22/22；留档保留在 [v5/02 §十二](v5/02-数据与口径.md)；收尾单 [v5/HANDOFF-v5-M2.md](v5/HANDOFF-v5-M2.md)） |
 | v5-M2'''' | 呈现层一：开局四步 + 出生证明卡 + 素纸主题（D8）+ 卡片阅读优先 | DoD 单源见 [v5/00 §里程碑总表](v5/00-README总览.md)（只加不减）；公共门 + e2e 全绿 | ✅（2026-10-26：开局四步（新增 `src/ui/start-flow.ts` 纯函数状态机 + 进度 1/4–4/4 + 一屏一个问题（首屏表单/chip 计数 = 0）+ 回退保值（离开 step 2 前 `syncStartForm` 抄值）；E2E 逐级断言）+ 出生证明八因素全显性（家庭成员与 `generateFamily`/`createRun` 名单逐位一致；随机/手选态「再来一次」换种子且至少一项因素变，自定义态不渲染）+ 素纸主题（`body::before` 纹理层整段删除 + `--tex-wash: 0` 机检 + 四款主题 `ink/ground`·`ink/surface` ≥7:1 与 `ink-2/ink-3` ≥4.5:1 逐主题断言 + 四主题截图 `docs/assets/v5-theme-*-375.png`）+ 卡片三层（L1 `max-width: 34em` 折合一行 34 字 E2E 硬断言 + L3 状态条原生 `<details>` 默认折叠为细线（读数节点不删，既有钩子照旧）+ 细看展开对账）+ 阅读偏好与设置页补全（`src/ui/prefs.ts` 键 `xinlu.prefs.v1` 字号/动效 + 清档两步确认）；出口门 validate 0 FAIL / validate:story 七项绿 / validate:rhythm 绿 / vitest **364**（基线 325，+39）/ typecheck 0 / e2e 双端全绿 / 布局·脱敏·许可·预算（746.05KB ≤850KB，纹理删除为负增量 −2.45KB）全绿；变异自检 26/26（13 组，`tools/tmp-mutate-v5m2.mjs`）；留档 [v5/02 §十三](v5/02-数据与口径.md)；收尾单 [v5/HANDOFF-v5-M3.md](v5/HANDOFF-v5-M3.md)） |
-| v5-M3'''' | 呈现层二：图谱双视图（家谱树默认）+ 语义配图层（D9）+ 轻量线索（D10） | DoD 单源见 [v5/00 §里程碑总表](v5/00-README总览.md)（只加不减）；公共门 + e2e 全绿 | ⬜ 待 v5-M2'''' 收官后启动 |
+| v5-M3'''' | 呈现层二：图谱双视图（家谱树默认）+ 语义配图层（D9）+ 轻量线索（D10） | DoD 单源见 [v5/00 §里程碑总表](v5/00-README总览.md)（只加不减）；公共门 + e2e 全绿 | ✅（2026-10-26：**图谱双视图**（`treeVM` 三代纵向 tree 默认 / ring 切换；层级 y 序 + 玩家恒正中 + 同状态逐字节确定；正交折线母线（公共段用中性导线色画一次）+ 婚姻双线 + 同行者虚线；关系网曲线连边 + 亲疏 = 线宽 + 透明度；节点详情取 history 回查 bondDeltas（关系值 + 何时/因何，无记录明说「还没变过」）；E2E 双视图切换 + 树层级 + 详情面板；截图 `docs/assets/v5-relations-{tree,ring}-{375,1280}.png`）+ **语义图库（D9）**（自产 CC0 线稿 SVG **48 张 / 19 类**，原始 34KB；映射 `objectKey → 语义标签` 继承 v4 逐条核过的图标结论；覆盖 **253/295 = 85.8%** ≥60%；豁免 42 条显式不留空框；validate 新增 `S` 区；路线偏离留痕 [docs/v5-scenes.md](docs/v5-scenes.md)）+ **轻量线索（D10）**（`src/data/clues.json` 6 条 = 6 阶段各 1 处 + `src/engine/clues.ts` 纯 flag 判定零随机 + 12 条 `pre` 门槛解锁事件 + 线索卡 UI；validate 新增 `C` 区；`clues.test.ts` 16 项含 36 局实证 6 条全触发）；出口门 validate 0 FAIL（295 事件）/ validate:story 七项绿 / validate:rhythm 绿 / vitest **399**（基线 364，+35）/ typecheck 0 / e2e 双端全绿（含线索卡与配图断言）/ 布局·脱敏·许可·预算（**760.43KB** ≤850KB，+14.38）全绿；变异自检 **24/24**（12 组，`tools/tmp-mutate-v5m3.mjs`）；留档 [v5/02 §十四](v5/02-数据与口径.md)；收尾单 [v5/HANDOFF-v5-M4.md](v5/HANDOFF-v5-M4.md)） |
 | v5-M4'''' | 发布 v5.0.0（三件套 + CHANGELOG 文本口径变化 → 历史存档建议重开） | DoD 单源见 [v5/00 §里程碑总表](v5/00-README总览.md)；三件套 + README 增量不破行门（120 行上限已机检为 LAYOUT.README） | ⬜ 待 v5-M3'''' 收官后启动 |
 
 ## 可选外部门禁

diff --git a/plan/v5/backlog.md b/plan/v5/backlog.md
@@ -1,7 +1,7 @@
 # backlog · 《心路》v5.0 迭代队列（唯一队列）
 
-> **状态：✅ 已启用（2026-10-26，随 v5-M1'''' 收官）**。证据制：没有可复现命令 + 输出，不进队列。规则沿 [../06-运维节奏.md](../06-运维节奏.md)（v1）+ [06-运维节奏.md](06-运维节奏.md)（v5 十六类）。
-> 预留承接：v5-M3'''' 配图覆盖不足的豁免清单；v5-M1''''/v5-M2'''' 出口门初跑的不合格条目（两棒首跑即全绿，无不合格条目入队）。
+> **状态：✅ 已启用（2026-10-26，随 v5-M1'''' 收官；v5-M3'''' 收官时观察区 +4 项）**。证据制：没有可复现命令 + 输出，不进队列。规则沿 [../06-运维节奏.md](../06-运维节奏.md)（v1）+ [06-运维节奏.md](06-运维节奏.md)（v5 十六类）。
+> 预留承接：v5-M3'''' 配图覆盖不足的豁免清单（已落 [docs/v5-scenes.md](../../docs/v5-scenes.md) §三 + 本档观察区）；v5-M1''''/v5-M2''''/v5-M3'''' 出口门初跑的不合格条目（三棒首跑即全绿，无不合格条目入队）。
 
 ## 队列
 
@@ -19,6 +19,10 @@
 | 出生证明卡在 375px 下需滚动 | v5-M2'''' 目检 | 证据：截图 `docs/assets/v5-start-step3-cert-375.png`（812px 视口下正文未读完，种子码一行贴底）。若反馈「一屏读不完」，评估家庭成员两栏化或折叠；当前不判缺陷（八因素全显性是硬口径，滚动是可接受代价） |
 | 纹理素材是否清出仓库 | v5/02 §十三 ▸ §七 增补（`assets/cc0/parchment/` 已不被引用） | 连续两轮无复用诉求时，单独一笔删除并同步 assets/README 与许可门 |
 | 配图扩展至每事件独有 | v5/01 §十.1 | 语义复用被反馈「图不对事」≥3 次 |
+| 配图覆盖的 42 条豁免 | v5-M3'''' 出口门实测（`node scripts/validate-data.mjs --full` → `PASS 语义配图：覆盖 253/295 = 85.8% + 豁免 42 条`；清单见 [docs/v5-scenes.md](../../docs/v5-scenes.md) §三） | 目检反馈「这几张卡没图显得空」≥3 次，或抽象类事件继续增多。转做时先给 `heart-*` 系找「关系/情绪」类底图——不得把抽象图标硬塞成场景 |
+| 自产线稿的表现力上限 | v5-M3'''' 目检（48 张总览 `docs/assets/v5-scenes-sheet.png`：主体可辨识，但灰度线稿在同一套画法下差异有限） | 玩家反馈「图都是同一套线」或想换视觉风格。评估时记住线稿 ≈0.7KB/张是预算上的优势，换照片/剪影要重量成本 |
+| 线索只做了 6 条（每阶段 1 处） | v5-M3'''' 出口门实测（`clues.test.ts` 36 局实证 6 条 100% 触发） | 玩家反馈「线索太稀」时扩到每阶段 2 处——**前提是先改口径**（02 §十现写「每阶段 ≤1 处」），并同步 validate `C.DENSITY` 与 E2E |
+| 线索 flag 未参与结局条件 | v5-M3'''' 设计（线索 flag 目前只解锁 12 条 `pre` 事件，不进 `endings.json` 的 `cond`） | 若希望「你对某件事的理解」影响结局类型，需扩结局条件并复跑可达性全量扫描（9 结局全可达是硬门） |
 | 强解谜关卡（拼图/密码锁） | v5/00 D10 弃选项 | 外部诉求明确且与主线强绑定 |
 | 主题按时辰自动切换 | v5/00 D8 弃选项 | 用户强诉求 |
 | 概率变体动态文案（LLM） | v5/01 §十.3 | LLM 旁路启用率上升 |

diff --git a/plan/v5/04-里程碑任务分解.md b/plan/v5/04-里程碑任务分解.md
@@ -39,6 +39,14 @@
 
 **出口门**：3.1–3.3 全过。
 
+> **执行结果（2026-10-26，v5-M3'''' 收官）**：3.1–3.3 全过。
+> - **3.1 图谱双视图**：`src/ui/relations.ts` 增 `treeVM`（三代纵向、玩家恒第 2 层正中、同状态逐字节确定）+ `bondToOpacity`（亲疏 = 线宽 × 透明度）+ `relationDetail`（history 回查 bondDeltas）；树走**正交折线母线**（多子女共用竖/横段用中性导线色画一次，否则最后一条 tag 色盖住其余）+ 婚姻双线；关系网曲线连边 + 画布放大避让。`relations.test.ts` 21 项（+10）。
+> - **3.2 语义图库（D9）**：**路线偏离并留痕**——原口径 CC0 照片在本机不可行（Wikimedia/Openverse 不通；照片 WebP 实测 ≈4.3KB × 48 ≈ 207KB > 当时余量 104KB；provenance 无法逐张证真），改**自产 CC0 线稿 SVG 48 张 / 19 类**（原始 34KB）。映射取 `objectKey → 语义标签`（复用 v4 逐条核过的图标结论，而非二次猜文本）。覆盖 **253/295 = 85.8%**（≥60%），豁免 42 条显式。新增 `tools/v5-gen-scenes.mjs`（图稿源）+ `tools/v5-gen-scene-map.mjs`（映射派生，含死键/不存在的标签硬报错）+ `tools/v5-scenes-doc.mjs`（留痕表重生成）。`scenes.test.ts` 9 项。
+> - **3.3 轻量线索（D10）**：`src/data/clues.json` 6 条（6 阶段各 1 处）+ `src/engine/clues.ts`（纯 flag 判定，零随机零三观改动）+ 12 条 `pre` 门槛解锁事件（`tools/v5-add-clues-events.mjs`）+ 线索卡 UI（`S.clueScreen`）。`clues.test.ts` 16 项，含 **36 局全程实证 6 条线索 100% 触发**。
+> - **出口门实测**：validate **0 FAIL**（295 事件 / 新增 `C` `S` 两区）/ validate:story 七项绿（255 条扫到）/ validate:rhythm 绿 / vitest **399**（基线 364，+35）/ typecheck 0 / e2e 双端全绿（含线索卡与配图断言 + 图谱双视图与节点详情 + 新增 4 张图谱截图）/ 布局门全绿 / 脱敏门 529 文件 0 命中 / 许可门 0 FAIL（459 件）/ 预算门 **760.43KB ≤ 850KB**（+14.38，余量 89.57KB）无 WARN。变异自检 **24/24**（12 组，`tools/tmp-mutate-v5m3.mjs`）。
+> - **本轮抓到的真缺陷（写进 HANDOFF-v5-M4）**：① 树视图首版画斜穿对角线（每位家长连每个孩子）→ 改正交母线；② 母线颜色被最后一个孩子的 tag 色覆盖 → 公共段单独画一次；③ 线稿首版每张右侧堆三个无意义方框，48 张看起来一样 → 改单主体居中；④ 「办健身卡配病房」「公园打拳配病房」等错配 → 拆出 `outdoors` 类；⑤ 配图变体用哈希**低位**取模，rain 3 条全撞一张 → 改高位；⑥ 婚姻双线断言只写「≥2 段」在单线退化下仍成立（假门）→ 改「线段数 = 边数 × 2」；⑦ E2E 不认识线索卡（新屏未接驱动）→ 补驱动分支；⑧ e2e 截图拍在换屏淡入动画中途（整页发白）→ 等 700ms。
+> - 口径增补：[02 §十四](02-数据与口径.md)；决策记录 7 行进 [00 §决策记录](00-README总览.md)；逐张对文案 [docs/v5-scenes.md](../../docs/v5-scenes.md)。
+
 ## v5-M4'''' · 发布 v5.0.0（顺序不可颠倒）
 
 ```

diff --git a/README.md b/README.md
@@ -111,7 +111,7 @@ npm run dev      # 浏览器打开 http://localhost:5173
 | v4-M4''' 发布 v4.0.0（年代中国、家庭与实感） | ✅（2026-10-26，[tag v4.0.0](https://github.com/yuluo554/xinlu/releases/tag/v4.0.0)；双端一键通关 + 手动实开复核全绿，留档 plan/05 §九） |
 | v5-M1'''' 数据与机制层（家庭槽位逐位命名/偶遇层 40 条/文本瘦身 243 条/节奏变体） | ✅（2026-10-26：槽位 10 枚逐位命名（validate `F` 区）+ 偶遇 40 条（`E.ENC` 密度 + 注入单测）+ 243 条主句瘦身（中位 104 字，原文整段迁 `detail` 零损失）+ 选项短句化（中位 8 字）+ 五种节奏变体（`validate:rhythm` 每阶段 ≥3 变体、非 critical 段连片 ≤3）+ 单屏 ≤160 字 E2E 硬断言；vitest 325 / e2e 双端绿 / 预算 745.46KB ≤ 850KB；留档 plan/v5/02 §十二 / plan/v5/HANDOFF-v5-M2.md） |
 | v5-M2'''' 呈现层一（开局四步/出生证明卡/素纸主题/卡片三层） | ✅（2026-10-26：开局四步（一屏一个问题 + 进度 1/4–4/4 + 回退保值）+ 出生证明八因素全显性（家庭成员与 createRun 同源）+ 素纸主题（删纹理层 + 四款主题提对比）+ 卡片三层（正文行宽 ≤34 字 + 状态条折叠 + 细看展开）+ 阅读偏好与清档；vitest 364（+39）/ e2e 双端绿 / 预算 746.05KB；留档 plan/v5/02 §十三 / plan/v5/HANDOFF-v5-M3.md） |
-| v5-M3'''' 呈现层二（家谱树双视图/语义配图层/轻量线索） | ⬜ 待 v5-M2'''' 收官 |
+| v5-M3'''' 呈现层二（家谱树双视图/语义配图层/轻量线索） | ✅（2026-10-26：图谱双视图（家谱树默认三代纵向 + 关系网曲线 + 节点详情回查 bondDeltas）+ 语义配图 48 张自产线稿 / 19 类（覆盖 85.8%，豁免 42 条显式）+ 轻量线索 6 条（纯 flag 判定，12 条解锁事件）+ 卡片上半屏配图；vitest 399（+35）/ e2e 双端绿 / 预算 760.43KB；留档 docs/v5-scenes.md / plan/v5/02 §十四 / plan/v5/HANDOFF-v5-M4.md） |
 | v5-M4'''' 发布 v5.0.0（文本口径与判定呈现变化） | ⬜ 待 v5-M3'''' 收官 |
 
 ## 许可
